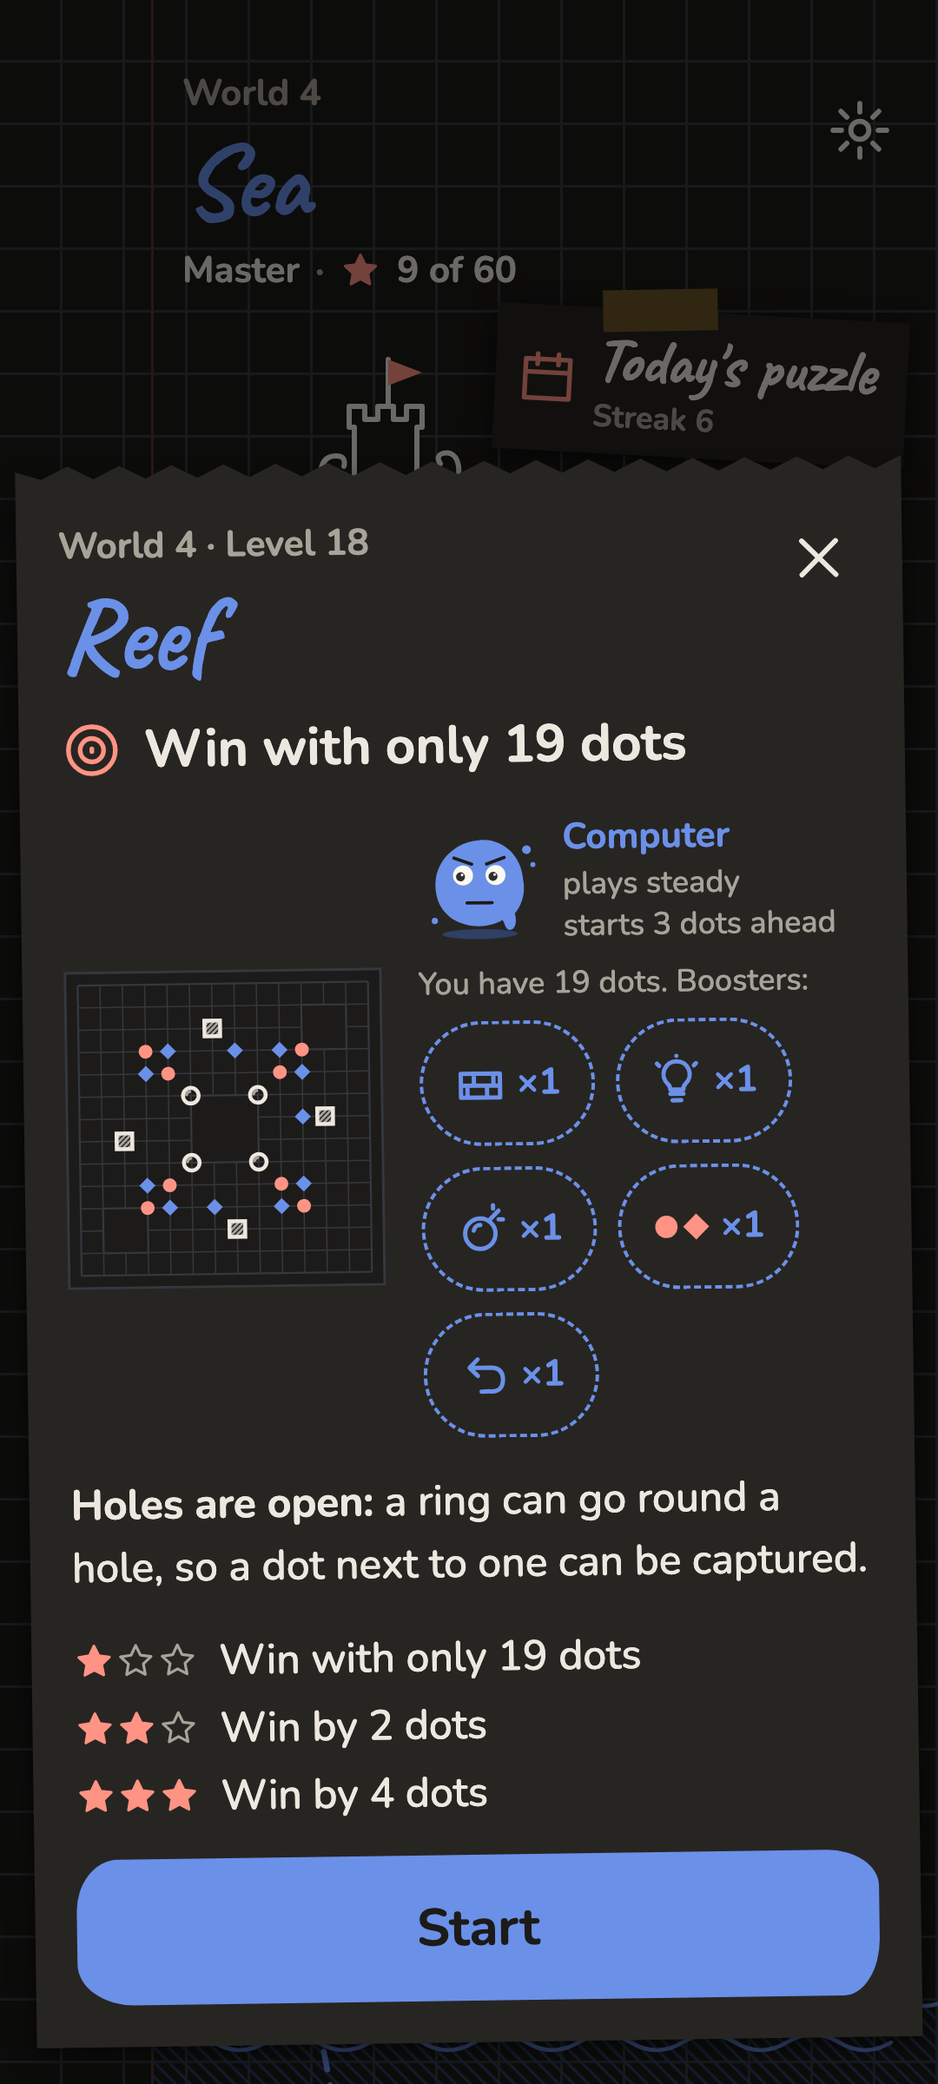
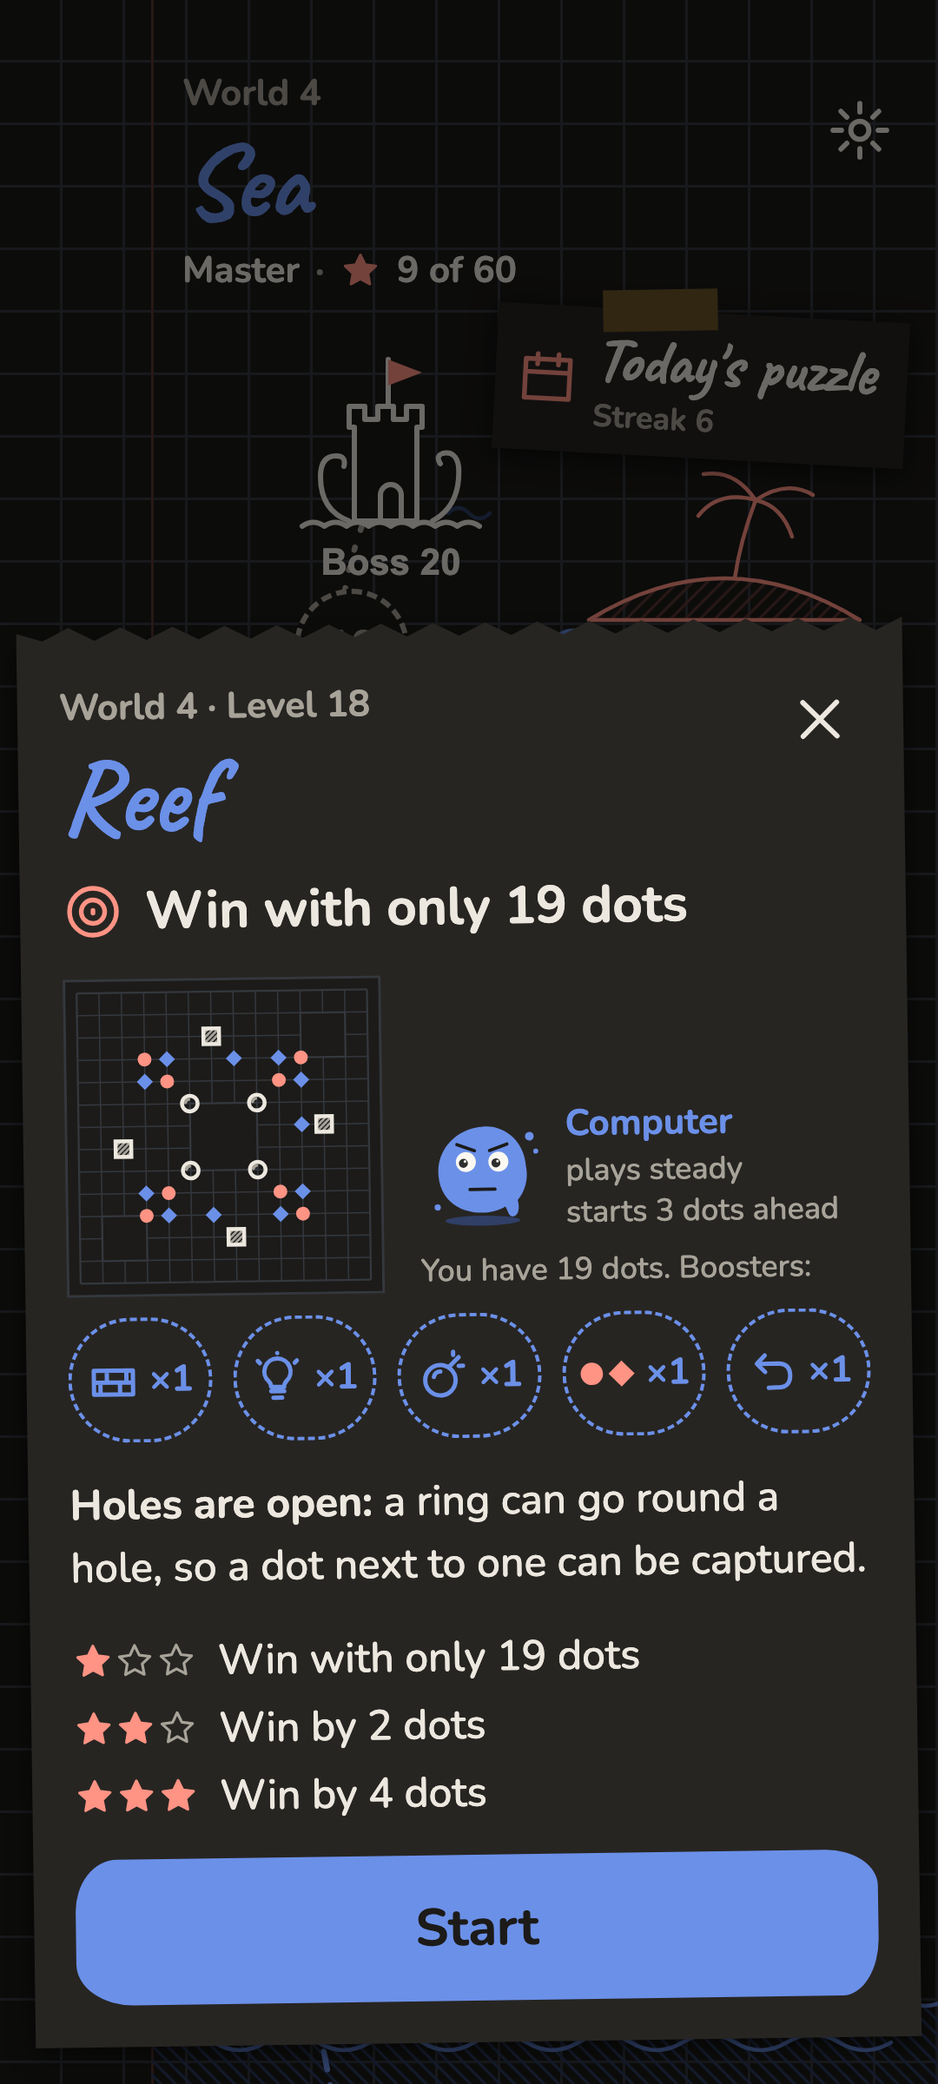
D-33 Level card with five boosters (#359)
One or two booster chips stay beside the board picture. Three to five
share one row under it, like the game's tool bar. New canvas frames:
Rocky Shore's card with five boosters, and the small-phone card for
Rocky Shore and Reef. Reef's card is redrawn with the row.

diff --git a/docs/design/canvas/draw.py b/docs/design/canvas/draw.py
@@ -178,6 +178,14 @@ POSITIONS["reef"] = dict(
     areas=[REEF_R1, REEF_R2, REEF_B1], last=(12, 4), **REEF_BOARD)
 
 
+# Rocky Shore, 4-6 (D-33): World 4's first whole game, every booster, rocks and pearls but no holes.
+ROCKY_MAP = level_map("4-06")
+POSITIONS["rocky-shore"] = dict(red=marked(ROCKY_MAP, "R"), blue=marked(ROCKY_MAP, "B"), areas=[], last=None,
+                                n=len(ROCKY_MAP), holes=marked(ROCKY_MAP, "-"), rocks=marked(ROCKY_MAP, "#"),
+                                pearls=marked(ROCKY_MAP, "+"))
+FIVE_BOOSTERS = (("Wall", "wall", 1), ("Hint", "hint", 1), ("Bomb", "bomb", 1), ("Double dot", None, 1), ("Undo", "undo", 1))
+
+
 # Free play and two players in an open-ended game (decision 0025, D-16): one position on a 15 x 15 board.
 # Red leads 4 to 1. Straight chains join its two rings to the top and right edges, a chain runs straight
 # in from the left edge, and one group of three in the lower middle is not joined to the edge. After a
@@ -1938,67 +1946,98 @@ def map_frame(t, uid, extra="", done=3, world=1):
     return root(t, "".join(parts) + extra, grid=True, margin=True)
 
 
-# The level cards: Level 7, Siege, and Reef, 4-18, whose board has holes (D-32).
+# The level cards: Level 7, Siege; Reef, 4-18, whose board has holes (D-32); and Rocky Shore, 4-6, the first
+# level with all five boosters (D-33).
 CARDS = {
     "siege": dict(world=1, level=7, name="Siege", mission="Capture 8 dots", board="opening", plays="plays sharp",
-                  ahead=6, dots=30, boosters=(("Wall", "wall", 2), ("Hint", "hint", 1)), holes=None,
+                  start="starts 6 dots ahead", dots=30, boosters=(("Wall", "wall", 2), ("Hint", "hint", 1)), holes=None,
                   stars=("Win", "Win with 8 dots to spare", "Win with 14 dots to spare")),
     "reef": dict(world=4, level=18, name="Reef", mission="Win with only 19 dots", board="reef-start", plays="plays steady",
-                 ahead=3, dots=19, boosters=(("Wall", "wall", 1), ("Hint", "hint", 1), ("Bomb", "bomb", 1),
-                                             ("Double dot", None, 1), ("Undo", "undo", 1)),
+                 start="starts 3 dots ahead", dots=19, boosters=FIVE_BOOSTERS,
                  holes="open", stars=("Win with only 19 dots", "Win by 2 dots", "Win by 4 dots")),
+    "rocky-shore": dict(world=4, level=6, name="Rocky Shore", mission="Win", board="rocky-shore", plays="plays steady",
+                        start="starts level with you", dots=26, boosters=FIVE_BOOSTERS, holes=None,
+                        stars=("Win", "Win by 2 dots", "Win by 4 dots")),
 }
 # The line a level with holes adds under the board picture (decision 0034), bold words first.
 HOLES_LINES = {
     "border": ("Holes are safe:", "a dot next to a hole can never be captured."),
     "open": ("Holes are open:", "a ring can go round a hole, so a dot next to one can be captured."),
 }
+# Up to this many chips sit in one row beside the board picture. More go in one row of their own under
+# the picture and the computer, sharing the card's width like the game's tool bar (D-33).
+CHIPS_BESIDE = 2
 
 
-def level_card_frame(t, uid, card="siege"):
+def booster_chip(t, name, ic, n, shared=False, small=False):
+    """A dashed chip, 48 dp tall: the booster's icon and how many are left. In the shared row every chip takes
+    an equal share of the width and centres its icon and count; a 320 dp phone leaves each about 49 dp."""
+    size = (f'flex: 1 1 0; min-width: 0; justify-content: center; padding: 0; gap: {3 if small else 4}px'
+            if shared else 'padding: 0 12px; gap: 4px')
+    return (f'<button type="button" aria-label="{name}, {n}: what it does" style="height: 48px; box-sizing: border-box; '
+            f'border: 1.5px dashed {t["blue"]}; border-radius: 24px; background: transparent; display: flex; '
+            f'align-items: center; {size}; font-family: inherit; {LABEL}; color: {t["blue"]}; white-space: nowrap">'
+            f'{icon(ICONS[ic], t["blue"], 20, 2) if ic else booster_pic(t, ic, t["blue"], 20)}×{n}</button>')
+
+
+def level_card(t, uid, card="siege", small=False):
+    """The card itself, at the bottom of the screen. A small phone (under 700 dp tall) gets a 96 dp picture, a 40 dp
+    face, 10 dp above the title and between the card's parts, so the head start keeps to one line and Reef's card fits under the
+    map's top 40 dp without scrolling."""
     k = CARDS[card]
     torn = svg(340, 10, el("path", d="M0 10 L0 4 " + " ".join(f"L{x} {4 + (3 if (x // 10) % 2 else -2)}" for x in range(10, 341, 10)) + " L340 10 Z",
                            fill=t["card"]), view="0 0 340 10", style="position: absolute; left: 0; top: -9px; width: 100%")
-    chips = "".join(
-        f'<button type="button" aria-label="{name}, {n}: what it does" style="height: 48px; box-sizing: border-box; '
-        f'border: 1.5px dashed {t["blue"]}; border-radius: 24px; background: transparent; display: flex; '
-        f'align-items: center; gap: 4px; padding: 0 12px; font-family: inherit; {LABEL}; color: {t["blue"]}">'
-        f'{icon(ICONS[ic], t["blue"], 20, 2) if ic else booster_pic(t, ic, t["blue"], 20)}×{n}</button>'
-        for name, ic, n in k["boosters"])
+    shared = len(k["boosters"]) > CHIPS_BESIDE
+    chips = "".join(booster_chip(t, name, ic, n, shared, small) for name, ic, n in k["boosters"])
     rows = "".join(
         f'<div style="display: flex; align-items: center; gap: 8px"><span style="display: flex">'
         f'{"".join(star(t, 16, i < j) for i in range(3))}</span><span style="{BODY}">{text}</span></div>'
         for j, text in enumerate(k["stars"], 1))
     pos = POSITIONS[k["board"]]
     n = pos.get("n", 15)
-    picture = (theme_board_svg(dict(t, style="notebook"), k["board"], uid + "m", size=120, sp=120 / n, mini=True)
-               if "holes" in pos else board_svg(t, k["board"], uid + "m", size=120, sp=8, mini=True))
+    px = 96 if small else 120
+    picture = (theme_board_svg(dict(t, style="notebook"), k["board"], uid + "m", size=px, sp=px / n, mini=True)
+               if "holes" in pos else board_svg(t, k["board"], uid + "m", size=px, sp=px / n, mini=True))
     holes = ""
     if k["holes"]:
         bold, rest = HOLES_LINES[k["holes"]]
         holes = f'<div style="{BODY}"><b style="font-weight: 700">{bold}</b> {rest}</div>'
-    card = (f'<div role="dialog" aria-label="Level {k["level"]}, {k["name"]}" style="position: absolute; left: 10px; right: 10px; bottom: 16px; '
-            f'box-sizing: border-box; padding: 14px 16px 16px; display: flex; flex-direction: column; gap: 12px; '
-            f'{note_style(t, -0.8)}">{torn}'
+    beside = "" if shared else f'<div style="display: flex; flex-wrap: wrap; gap: 8px">{chips}</div>'
+    under = f'<div style="display: flex; gap: {6 if small else 8}px; margin-top: -4px">{chips}</div>' if shared else ""
+    return (f'<div role="dialog" aria-label="Level {k["level"]}, {k["name"]}" style="position: absolute; left: 10px; right: 10px; bottom: 16px; '
+            f'box-sizing: border-box; padding: {10 if small else 14}px 16px 16px; display: flex; flex-direction: column; gap: {10 if small else 12}px; '
+            f'font-family: Nunito, system-ui, sans-serif; {note_style(t, -0.8)}">{torn}'
             f'<div style="display: flex; align-items: flex-start">'
             f'<div style="flex: 1"><div style="{LABEL}; color: {t["graphite"]}">World {k["world"]} · Level {k["level"]}</div>'
             f'<div style="{DISPLAY}; color: {t["blue"]}">{k["name"]}</div></div>'
             f'{icon_button(t, "close", "Close", style="margin: -6px -8px 0 0")}</div>'
             f'<div style="display: flex; align-items: center; gap: 8px; margin-top: -6px">{icon(ICONS["target"], t["red"], 24)}'
             f'<span style="{TITLE}">{k["mission"]}</span></div>'
-            f'<div style="display: flex; gap: 14px; align-items: center">'
+            f'<div style="display: flex; gap: {12 if small else 14}px; align-items: {"flex-end" if shared else "center"}">'
             f'<div style="border: 1px solid {t["grid"]}; flex-shrink: 0; display: flex">{picture}</div>'
             f'<div style="display: flex; flex-direction: column; gap: 6px; min-width: 0">'
-            f'<div style="display: flex; align-items: center; gap: 8px">{face(t, "determined", 48)}'
+            f'<div style="display: flex; align-items: center; gap: {6 if small else 8}px">{face(t, "determined", 40 if small else 48)}'
             f'<div><div style="{LABEL}; color: {t["blue"]}">Computer</div>'
-            f'<div style="{SMALL}; color: {t["graphite"]}">{k["plays"]}<br>starts {k["ahead"]} dots ahead</div></div></div>'
+            f'<div style="{SMALL}; color: {t["graphite"]}">{k["plays"]}<br>{k["start"]}</div></div></div>'
             f'<div style="{SMALL}; color: {t["graphite"]}">You have {k["dots"]} dots. Boosters:</div>'
-            f'<div style="display: flex; flex-wrap: wrap; gap: 8px">{chips}</div></div></div>'
+            f'{beside}</div></div>{under}'
             f'{holes}'
             f'<div style="display: flex; flex-direction: column; gap: 2px">{rows}</div>'
             f'{main_button(t, "Start")}</div>')
+
+
+def level_card_frame(t, uid, card="siege"):
     scrim = f'<div aria-hidden="true" style="position: absolute; inset: 0; background: {t["scrim"]}"></div>'
-    return map_frame(t, uid, scrim + card, world=k["world"])
+    return map_frame(t, uid, scrim + level_card(t, uid, card), world=CARDS[card]["world"])
+
+
+def small_level_card_frame(t, uid, card="rocky-shore"):
+    """The card at 320 x 568: the map's top shows behind, as on the small setup frame."""
+    scrim = f'<div aria-hidden="true" style="position: absolute; inset: 0; background: {t["scrim"]}"></div>'
+    return (f'<div style="position: relative; width: 320px; height: 568px; overflow: hidden; background: {t["paper"]}; '
+            f'font-family: Nunito, system-ui, sans-serif; color: {t["pencil"]}">'
+            f'<div style="position: absolute; left: -20px; top: 0">{map_frame(t, uid, world=CARDS[card]["world"])}</div>'
+            f'{scrim}{level_card(t, uid, card, small=True)}</div>')
 
 
 # ---------------------------------------------------- the Shop's small boards ----
@@ -2066,6 +2105,12 @@ FRAMES = [  # file stem, canvas name, title, drawer, size
     ("level-card", "LevelCard", "Level card", lambda t, u: level_card_frame(t, u), (W, H)),
     ("level-card-holes", "LevelCardHoles", "Level card: Reef, a board with holes",
      lambda t, u: level_card_frame(t, u, "reef"), (W, H)),
+    ("level-card-five", "LevelCardFive", "Level card: Rocky Shore, five boosters",
+     lambda t, u: level_card_frame(t, u, "rocky-shore"), (W, H)),
+    ("small-level-card-five", "SmallLevelCardFive", "Small phone: Level card, five boosters",
+     lambda t, u: small_level_card_frame(t, u), SMALL_PHONE),
+    ("small-level-card-holes", "SmallLevelCardHoles", "Small phone: Level card, Reef, five boosters and holes",
+     lambda t, u: small_level_card_frame(t, u, "reef"), SMALL_PHONE),
     ("game-reef", "GameReef", "Game: Reef, holes, rocks and pearls", lambda t, u: game_frame(t, "reef", u), (W, H)),
     ("game-undo", "GameUndo", "Game: Undo's preview", lambda t, u: game_frame(t, "undo", u), (W, H)),
     ("boosters", "Boosters", "Boosters", lambda t, u: boosters_frame(t, u), (W, H)),

diff --git a/docs/design/canvas/README.md b/docs/design/canvas/README.md
@@ -46,7 +46,10 @@ one frame shows them turned on in Settings.
 | **Game: World 3's board touches.** The threat, with Night sky's pencil doodles beside the opponent: a crescent moon, a star, a comet and a twinkle. The board itself is the same in every world. | <img src="game-world-3-light.png" width="180" alt="Light: a game in World 3"> | <img src="game-world-3-dark.png" width="180" alt="Dark: a game in World 3"> |
 | **Game: World 4's board touches.** The threat, with Sea's pencil doodles beside the opponent: a fish, a shell, a boat and a wave. The board itself is the same in every world. | <img src="game-world-4-light.png" width="180" alt="Light: a game in World 4"> | <img src="game-world-4-dark.png" width="180" alt="Dark: a game in World 4"> |
 | **Game: Reef, holes, rocks and pearls.** Not Level 7: Reef (4-18), a 14 x 14 board at 25 dp with open holes, mid-game. Red's ring at the top right goes round a single hole and the blue dot beside it; its small ring in the middle took a blue dot on a pearl, which counts 2; blue's ring on the left goes over a rock. A red dot sits live on a pearl. The [theme page](../theme-notebook.md#holes-rocks-and-pearls) gives the rules. | <img src="game-reef-light.png" width="180" alt="Light: Reef mid-game with holes, rocks and pearls"> | <img src="game-reef-dark.png" width="180" alt="Dark: Reef mid-game with holes, rocks and pearls"> |
-| **Level card: a board with holes.** Reef's card over the World 4 map: the board picture shows the holes, rocks and pearls, the five boosters wrap onto three rows, and one line under them says the holes are open, before the star targets. | <img src="level-card-holes-light.png" width="180" alt="Light: Reef's level card with the line Holes are open"> | <img src="level-card-holes-dark.png" width="180" alt="Dark: Reef's level card with the line Holes are open"> |
+| **Level card: a board with holes.** Reef's card over the World 4 map: the board picture shows the holes, rocks and pearls, the five boosters sit in one row under the picture, and one line under them says the holes are open, before the star targets. | <img src="level-card-holes-light.png" width="180" alt="Light: Reef's level card with the line Holes are open"> | <img src="level-card-holes-dark.png" width="180" alt="Dark: Reef's level card with the line Holes are open"> |
+| **Level card: five boosters.** Rocky Shore (4-6), the first level that allows all five. Three or more chips leave the column beside the picture and share one row under it, in the tool bar's order, each about 55 dp wide; the picture sits level with the computer and the dots line. The card is about 50 dp taller than Level 7's. | <img src="level-card-five-light.png" width="180" alt="Light: Rocky Shore's level card with five boosters in one row"> | <img src="level-card-five-dark.png" width="180" alt="Dark: Rocky Shore's level card with five boosters in one row"> |
+| **Small phone: Level card, five boosters.** The same card at 320 x 568: a 96 dp picture, a 40 dp face, 10 dp between the parts, and five chips of about 49 dp. The map's top still shows. | <img src="small-level-card-five-light.png" width="160" alt="Light: the five-booster level card on a small phone"> | <img src="small-level-card-five-dark.png" width="160" alt="Dark: the five-booster level card on a small phone"> |
+| **Small phone: Reef's card.** The tallest card: five boosters and the holes line. It fits under the top 24 dp the app keeps free, so Start shows without scrolling. | <img src="small-level-card-holes-light.png" width="160" alt="Light: Reef's level card on a small phone"> | <img src="small-level-card-holes-dark.png" width="160" alt="Dark: Reef's level card on a small phone"> |
 
 ## Free play and two players
 
@@ -169,6 +172,10 @@ These choices are new here. They are proposals for the owner to accept or change
   booster (decision 0023).
 - **On a small phone** the opponent is a small photo beside its name, and the speech bubble has no
   room.
+- **Boosters on the Level card.** One or two chips sit beside the board picture, under the dots
+  line. Three, four or five share one row under the picture, like the game's tool bar, each chip
+  centring its icon and count; the column beside the picture then ends with "Boosters:" just above
+  them. A count up to ×99 fits a chip on a 320 dp phone.
 - **Drag's guides** are dashed lines in the ink of the side to move; the
   [theme page](../theme-notebook.md#drags-guides) gives their values. The thumb on the drag frames
   is not part of the game. It is drawn a little see-through, so the preview under it shows.
@@ -207,6 +214,7 @@ python3 docs/design/canvas/draw.py --only cosmetics     # the piece styles, ring
 ```
 
 It needs Python 3, Google Chrome and a network connection (the fonts come from Google Fonts). The
-Reef frames take their board from the level file,
-[`4-18.level`](../../../engine/src/main/resources/levels/4-18.level). A
+Reef and Rocky Shore frames take their board from the level files,
+[`4-18.level`](../../../engine/src/main/resources/levels/4-18.level) and
+[`4-06.level`](../../../engine/src/main/resources/levels/4-06.level). A
 change made by hand on the canvas does not reach the script, so change the script and redraw.

diff --git a/docs/design/flows.md b/docs/design/flows.md
@@ -155,7 +155,7 @@ over the map or the board, which stay visible around it.
 | --- | --- | --- | --- |
 | Loading | App start | The app icon on paper, as on Android's own start-up screen, with its red ring drawing itself as the game loads, and a one-line tip. No buttons. Then the map; until Level 1 is finished, Level 1 instead. | A-01, A-06, A-18 |
 | World map (home) | Loading; Back from Rules, Stats, Shop or Settings; leaving a game | One scrolling map with a section per world. Finished levels with their stars, the next level circled and marked "next", boss levels as fortresses, a chest every 10 levels, locked worlds with the stars they need. No Play buttons: a level opens its Level card. Labelled icons for Today's puzzle, Play a game, How to play, Stats, Shop and Settings; the player's title and stars. | A-01, A-02, A-04 |
-| Level card | A level on the map, Next on Result | Over the map: the mission in one line, a small picture of the board, the computer's face for its strength, its head start, allowed boosters with how many are left for the level (a level's own booster, once used, is gone for good, decision 0040; a kind used up shows ×0 in grey) and star targets. A boss level adds the boss's name, face and rule. One button: Start, or Resume when the level's game is saved. Tapping a booster opens Boosters. | A-03 |
+| Level card | A level on the map, Next on Result | Over the map: the mission in one line, a small picture of the board, the computer's face for its strength, its head start, allowed boosters with how many are left for the level (a level's own booster, once used, is gone for good, decision 0040; a kind used up shows ×0 in grey; three or more share one row under the picture, like the tool bar) and star targets. A boss level adds the boss's name, face and rule. One button: Start, or Resume when the level's game is saved. Tapping a booster opens Boosters. | A-03 |
 | Boosters | A booster on the Level card | Wall, Hint, Bomb, Double dot and Undo: how many the player has for this level (the level's own left after earlier attempts, plus their own), what each does, how to earn more. A kind the player owns but this level doesn't allow shows, in pencil, "You have 2. Levels allow it from 3-1." in place of ×0. Close returns to where it opened. | A-05, A-27 |
 | Chest | Next on the Result of every 10th level | Over the map: one or two rewards. Pick one of two; one reward shows alone with **Keep it**. A reward the very next level can't use says "from level 2-1" under it, in pencil. When both of two are boosters, an ad offer can keep both ([`money.md`](money.md)). | A-04, C-03, G-32, A-27 |
 | Game board | Start, Play, Resume, Retry, Play again | The opponent above the board, with a face and a tally; the player below it, with a tally and the tool bar. Whose turn, dots left, the last move (A-14), the mission note, special points and any boss countdown. In the campaign, the boosters sit in the tool bar, Undo among them (decision 0023), with what is left for the level: Retry and Restart do not bring back one used (decision 0040). In free play, the tool bar holds an Undo button with no count; two players and the daily puzzle have no undo. An open-ended game adds Stop, and after a stop the side that collects gets Done (see [Free play and two players](#free-play-and-two-players)). A pause icon opens Pause. | A-03, A-05, A-13, A-14, A-28 |

diff --git a/docs/design/game-screens.md b/docs/design/game-screens.md
@@ -49,7 +49,7 @@ mark where art goes; the art itself comes later (D-07 and phase 5).
 | Loading | The app icon on paper, its red ring drawing itself as the game loads, a one-line tip. No buttons. On the very first start it leads straight into Level 1; the map first appears after Level 1's result. | Brand (B-04); B11 |
 | Map (home) | The world's path through a doodled landscape. Finished stops with stars, the next stop circled twice and marked "next", near the thumb; tapping it opens its card. The boss fortress, a chest every 10 levels. Today's puzzle as a sticky note. Small icons: play a game, How to play, Stats, Shop, Settings. The player's title and stars. | P01, P06, P07, P03; mood boards 4 and 7 |
 | Map: a world opens | After the last star needed: the next world's page turns and the path continues. | P02, P06 |
-| Level card | A page torn from the notebook, over the map: the mission in one line, the board picture, the opponent's face and head start, the boosters allowed with how many are left for the level (a used one never comes back, decision 0040; tap one to see what it does), the star targets. One button: Start. | U01, P04 |
+| Level card | A page torn from the notebook, over the map: the mission in one line, the board picture, the opponent's face and head start, the boosters allowed with how many are left for the level (a used one never comes back, decision 0040; tap one to see what it does; one or two sit beside the board picture, three to five share one row under it), the star targets. One button: Start. | U01, P04 |
 | Boss card | The level card with the boss's name, face and rule as a banner. | U01, M07 |
 | Chest | Every 10 levels: one or two rewards, each a booster the next levels allow. Pick one of two, or keep the only one. | U04 |
 | Play a game | A small sheet from the map: against the computer, or with a friend on one phone. One tap starts with the defaults. | U05, U07, U09 |
